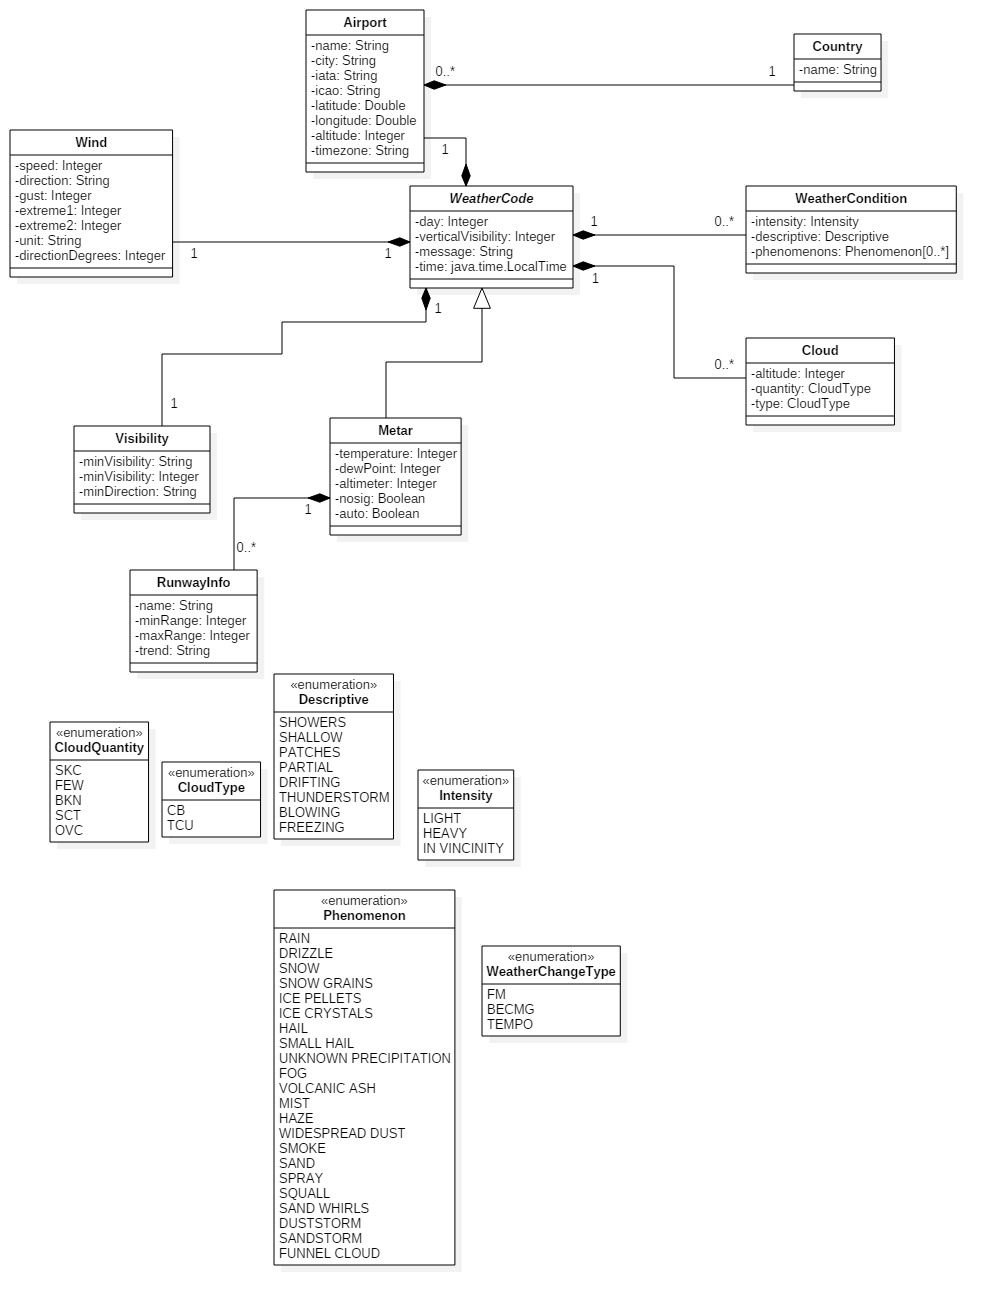
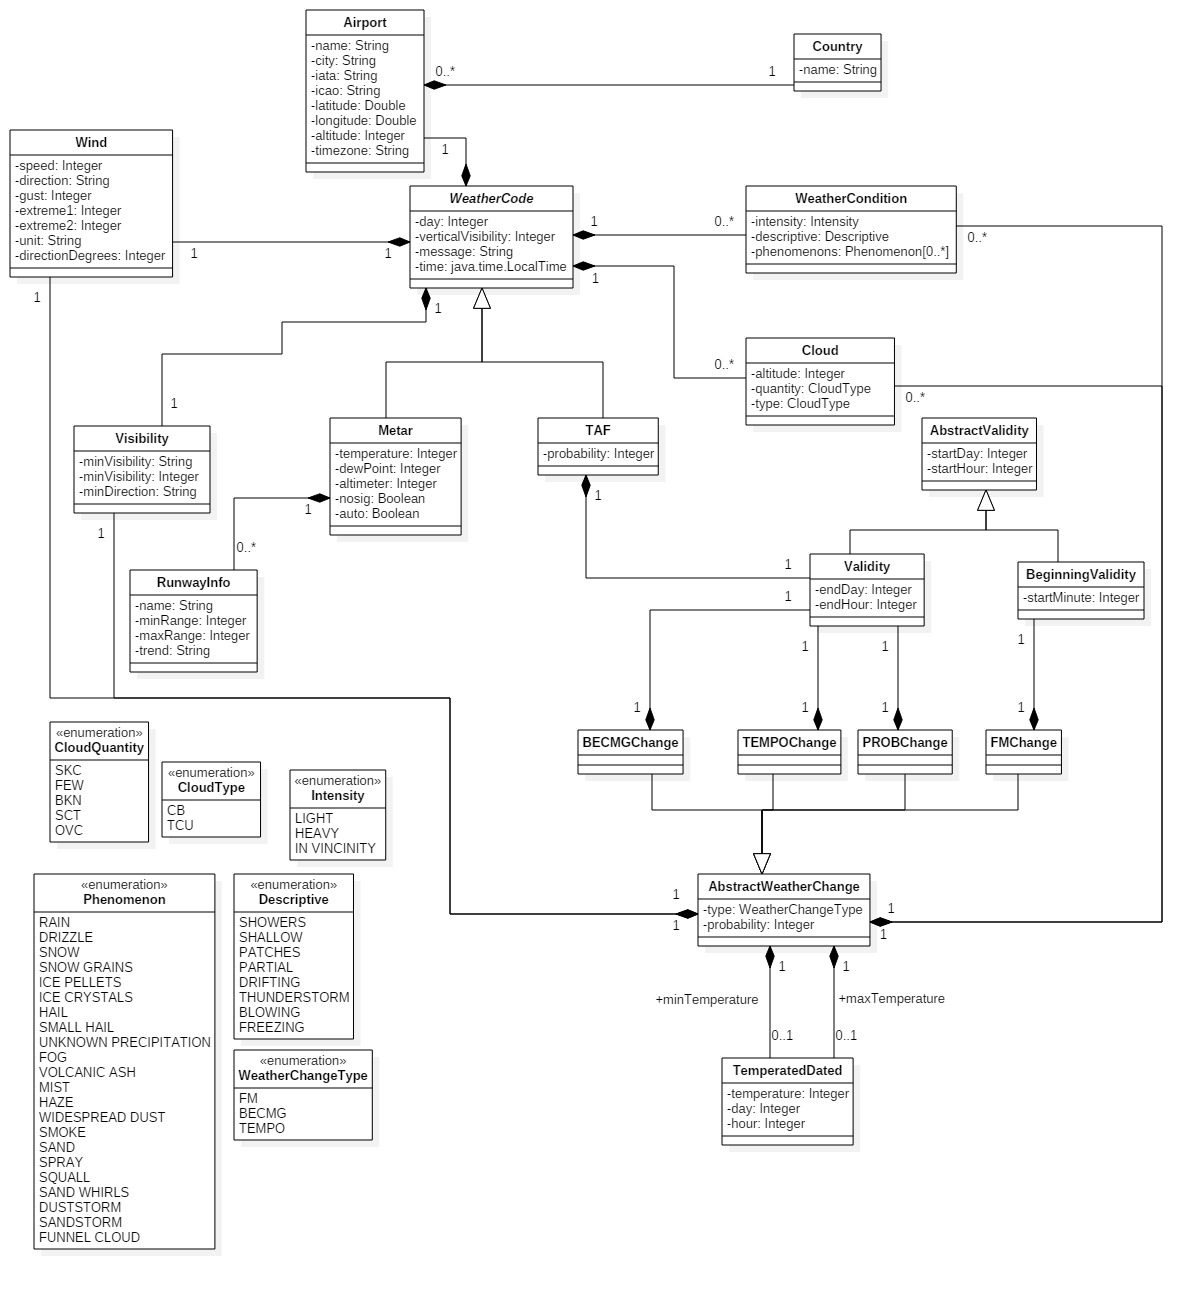
feature/TAF: Readme & class diagram.
Complete readme for TAF.
Add TAF into model.

diff --git a/src/main/java/com/mivek/parser/TAFParser.java b/src/main/java/com/mivek/parser/TAFParser.java
@@ -1,6 +1,3 @@
-/**
- * 
- */
 package com.mivek.parser;
 
 import java.time.LocalTime;
@@ -25,7 +22,7 @@ import com.mivek.utils.Regex;
  * @author mivek
  *
  */
-public class TAFParser extends AbstractParser<TAF> {
+public final class TAFParser extends AbstractParser<TAF> {
 	/**
 	 * From string constant.
 	 */
@@ -170,11 +167,11 @@ public class TAFParser extends AbstractParser<TAF> {
 	}
 
 	/**
-	 * TODO Add tests
-	 * @param change
-	 * @param pPart
+	 * Updates the change object according to the string.
+	 * @param change the change object to update.
+	 * @param pPart the string to parse.
 	 */
-	private void processChanges(final AbstractWeatherChange<Validity> change, String pPart) {
+	private void processChanges(final AbstractWeatherChange<Validity> change, final String pPart) {
 		if (Regex.match(REGEX_VALIDITY, pPart)) {
 			change.setValidity(parseValidity(pPart));
 		} else {
@@ -183,9 +180,9 @@ public class TAFParser extends AbstractParser<TAF> {
 	}
 
 	/**
-	 * 
-	 * @param pChange
-	 * @param pPart
+	 * Updates the change object according to the string.
+	 * @param pChange the change object to update.
+	 * @param pPart String containing the information.
 	 */
 	protected void processGeneralChanges(final AbstractWeatherChange<?> pChange, final String pPart) {
 		if (pPart.startsWith(PROB)) {
@@ -212,10 +209,11 @@ public class TAFParser extends AbstractParser<TAF> {
 			}
 		}
 	}
+
 	/**
-	 * 
-	 * @param pValidity
-	 * @return
+	 * Parse the validity part of a {@link TAFParser} or an {@link AbstractWeatherChange}.
+	 * @param pValidity the string representing the validity.
+	 * @return a {@link Validity} object.
 	 */
 	protected Validity parseValidity(final String pValidity) {
 		Validity validity = new Validity();
@@ -227,6 +225,11 @@ public class TAFParser extends AbstractParser<TAF> {
 		return validity;
 	}
 
+	/**
+	 * Parses the validity of a {@link FMChange} object.
+	 * @param pValidity the string to parse
+	 * @return a {@link BeginningValidity} object.
+	 */
 	protected BeginningValidity parseBasicValidity(final String pValidity) {
 		BeginningValidity validity = new BeginningValidity();
 		validity.setStartDay(Integer.parseInt(pValidity.substring(2, 4)));

diff --git a/README.md b/README.md
@@ -4,10 +4,11 @@
 # MetarParser
 
 
-This java lib provides a Metar decoder.
+This java lib provides a Metar and TAF decoder.
 
 Use the MetarFacade class and its method decode to decode a metar.
 Use the MetarFacade class and its method retrieveFromAirport to get the metar of an airport. This metod take the icao code as parameter.
+
 
 ## Model
 ![class diagram](model.jpg)
@@ -74,6 +75,12 @@ The wind class is composed of
   - the highest variable wind
   - the unit of the wind's speed
 
+### Metar
+The metar class is composed of
+  - the day of the metar
+  - the delivery time of the metar.
+  
+  
 ## Examples
 ### Parse a metar
 Instantiate the metarFacade and use its method parse.
@@ -93,6 +100,27 @@ String icao = "LFPG";
 MetarFacade facade = MetarFacade.getInstance();
 Metar metar = facade.retrieveFromAirport(icao);
 ```
+### Parse a taf
+Use the TAFFacade to decode the taf.
 
+```java
+String message = "TAF LFPG 150500Z 1506/1612 17005KT 6000 SCT012 \n" 
+			      +"TEMPO 1506/1509 3000 BR BKN006 PROB40 \n"
+			      +"TEMPO 1506/1508 0400 BCFG BKN002 PROB40 \n"
+			      +"TEMPO 1512/1516 4000 -SHRA FEW030TCU BKN040 \n" 
+			      +"BECMG 1520/1522 CAVOK \n"
+			      +"TEMPO 1603/1608 3000 BR BKN006 PROB40 \n"
+			      +"TEMPO 1604/1607 0400 BCFG BKN002 TX17/1512Z TN07/1605Z";
+TAFFacade facade = TAFFacade.getInstance();
+TAF taf = facade.decode(message);
+```
+Lines of the message have to be separated by a "\n" character.
 
+### Retrieve a taf
+Use the TAFFacade and the method retrieveFromAirport with the ICAO code of the airport.
 
+```java
+String icao = "LFPG";
+TAFFacade facade = TAFFacade.getInstance();
+TAF taf = facade.retrieveFromAirport(icao);
+```
